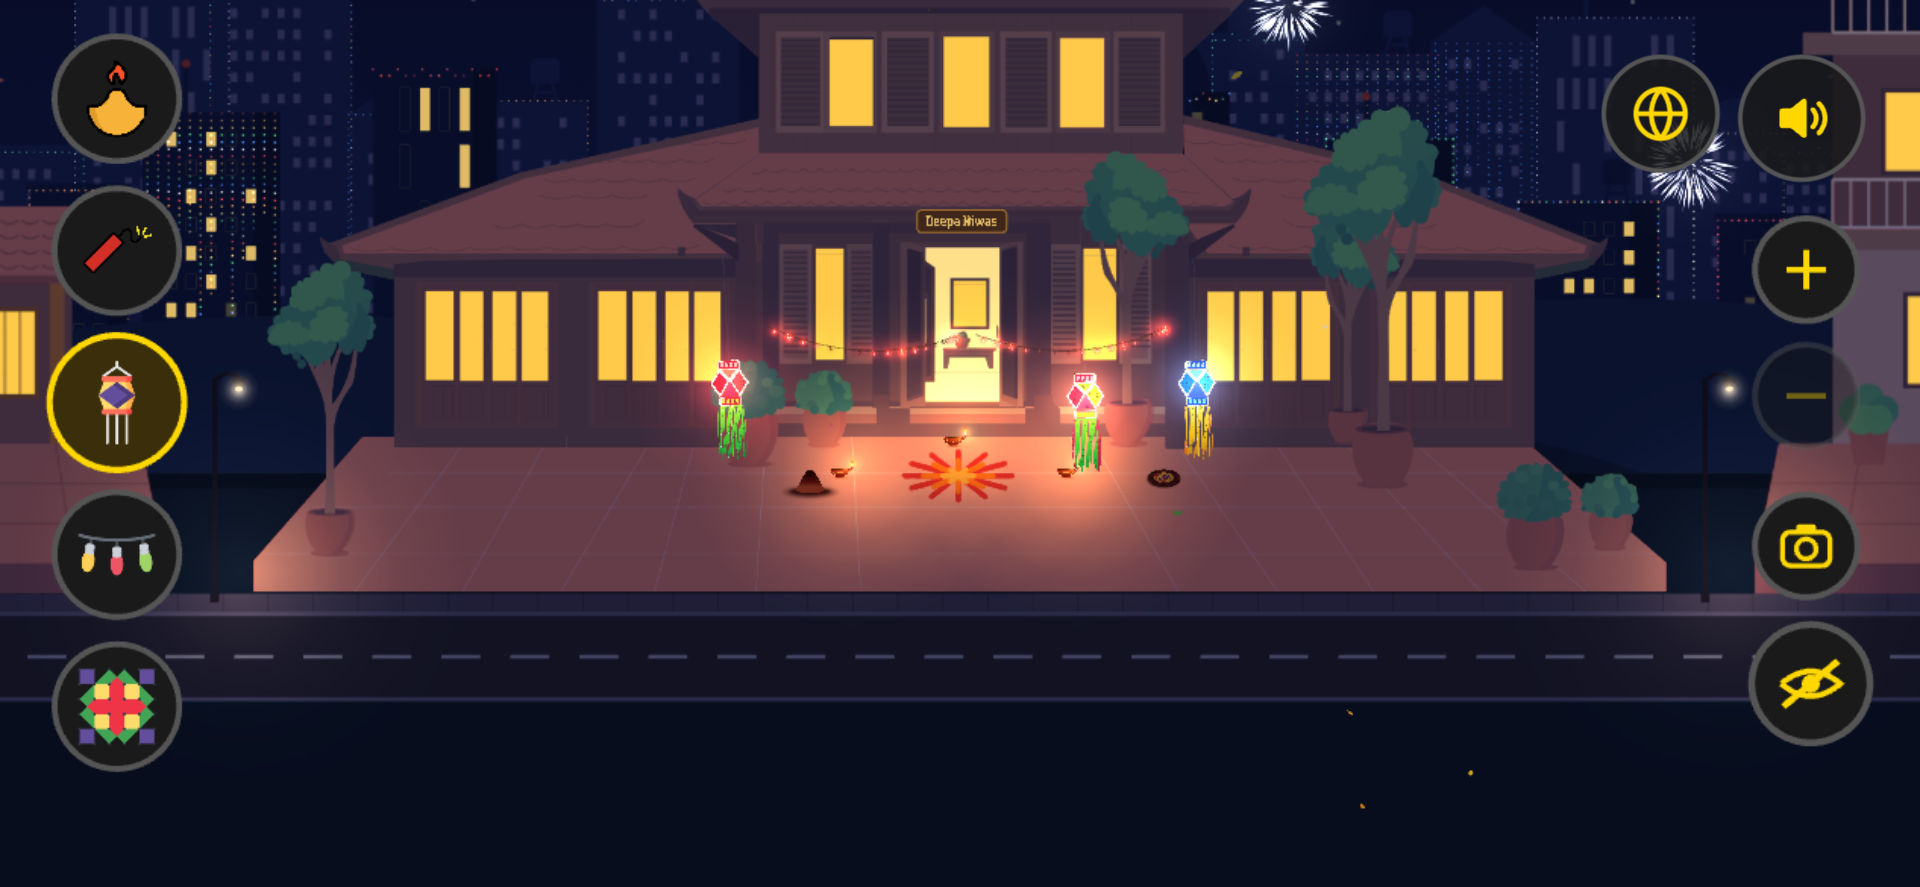
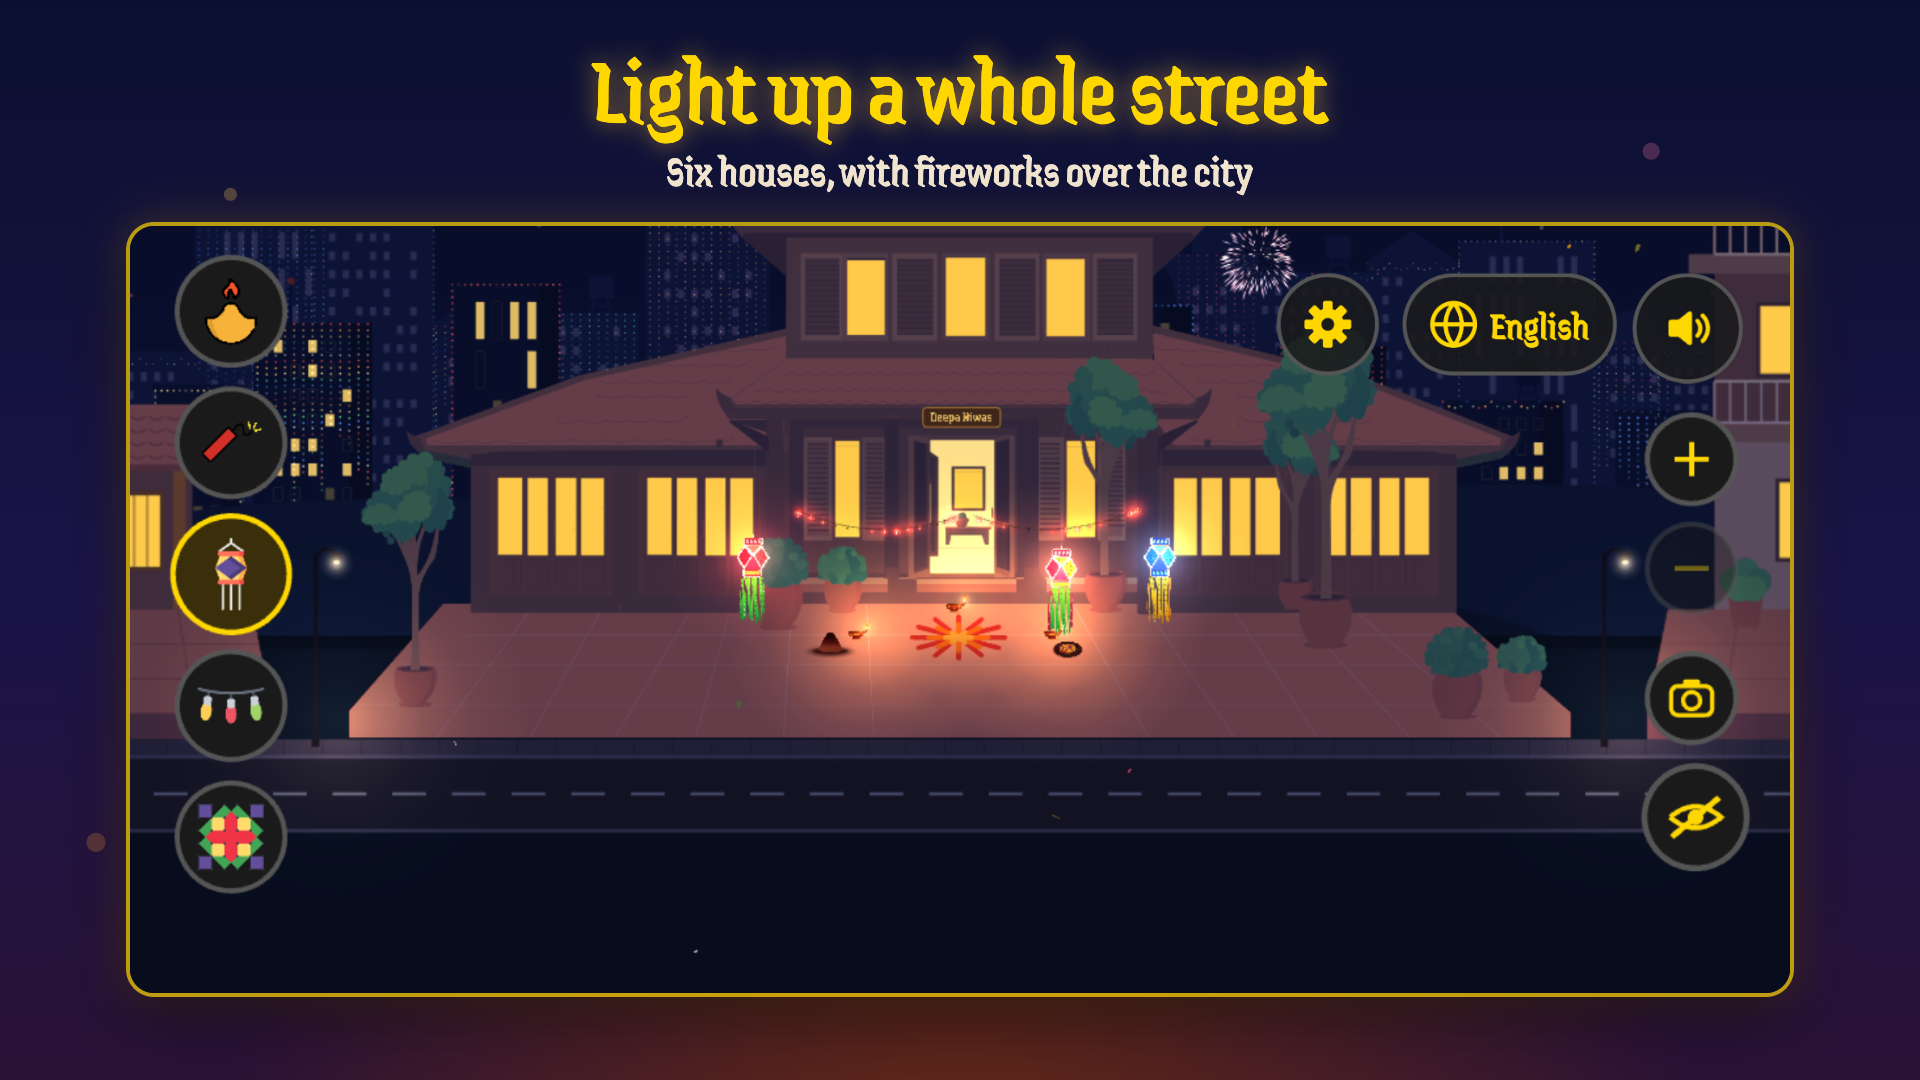
Caption the store screenshots, and keep the game's own for the home page
scripts/store/captioned.mjs frames each of the game's screenshots at 1920 by 1080 (16:9,
which Google Play takes, unlike 1920 by 887) on a festive background with a caption, for
fastlane/ and Google Play, and can export them with upload instructions. The game's own
move to web/screenshots/ for the home page, which isn't built into the app.

diff --git a/home.html b/home.html
@@ -262,31 +262,31 @@
   <h2>A night on the porch</h2>
   <div class="shots">
     <figure>
-      <img src="/fastlane/metadata/android/en-US/images/phoneScreenshots/1.png" width="1920" height="887" alt="Three lit diyas glowing on the porch of a house at night">
+      <img src="/web/screenshots/1.png" width="1920" height="887" alt="Three lit diyas glowing on the porch of a house at night">
       <figcaption>Fill diyas with wicks and oil, and light them with a match.</figcaption>
     </figure>
     <figure>
-      <img src="/fastlane/metadata/android/en-US/images/phoneScreenshots/2.png" width="1920" height="887" alt="An anar fountain and a spinning chakri throwing sparks on the porch" loading="lazy">
+      <img src="/web/screenshots/2.png" width="1920" height="887" alt="An anar fountain and a spinning chakri throwing sparks on the porch" loading="lazy">
       <figcaption>Set off anars, chakris, laddis, sutli bombs and rockets.</figcaption>
     </figure>
     <figure>
-      <img src="/fastlane/metadata/android/en-US/images/phoneScreenshots/3.png" width="1920" height="887" alt="Strings of fairy lights hung across the front of the house" loading="lazy">
+      <img src="/web/screenshots/3.png" width="1920" height="887" alt="Strings of fairy lights hung across the front of the house" loading="lazy">
       <figcaption>Hang strings of fairy lights that sway in the wind.</figcaption>
     </figure>
     <figure>
-      <img src="/fastlane/metadata/android/en-US/images/phoneScreenshots/4.png" width="1920" height="887" alt="A colourful rangoli of petals drawn on the porch floor" loading="lazy">
+      <img src="/web/screenshots/4.png" width="1920" height="887" alt="A colourful rangoli of petals drawn on the porch floor" loading="lazy">
       <figcaption>Draw a rangoli on the porch floor in coloured powder.</figcaption>
     </figure>
     <figure>
-      <img src="/fastlane/metadata/android/en-US/images/phoneScreenshots/5.png" width="1920" height="887" alt="Three lit akash kandils, red, mixed and blue, hanging from the house with long tails" loading="lazy">
+      <img src="/web/screenshots/5.png" width="1920" height="887" alt="Three lit akash kandils, red, mixed and blue, hanging from the house with long tails" loading="lazy">
       <figcaption>Make akash kandils step by step and hang them from the eaves.</figcaption>
     </figure>
     <figure>
-      <img src="/fastlane/metadata/android/en-US/images/phoneScreenshots/6.png" width="1920" height="887" alt="The decorated house at night, zoomed out, with the road in front and fireworks over the city" loading="lazy">
+      <img src="/web/screenshots/6.png" width="1920" height="887" alt="The decorated house at night, zoomed out, with the road in front and fireworks over the city" loading="lazy">
       <figcaption>Zoom out to the whole street, with fireworks over the city.</figcaption>
     </figure>
     <figure>
-      <img src="/fastlane/metadata/android/en-US/images/phoneScreenshots/7.png" width="1920" height="887" alt="A family on the porch among lit diyas, a boy carrying one of his own" loading="lazy">
+      <img src="/web/screenshots/7.png" width="1920" height="887" alt="A family on the porch among lit diyas, a boy carrying one of his own" loading="lazy">
       <figcaption>A family on every porch, lighting diyas and setting off fireworks of their own.</figcaption>
     </figure>
   </div>

diff --git a/README.md b/README.md
@@ -183,7 +183,7 @@ Google Play refuses a version code it already has, so a tag rebuilt by hand fail
 
 It reads the version from the tagged source, as it can't work it out from the tag. So the nightly workflow puts each tag on a commit of its own, `Release <tag>`, which writes the version into `android/version.properties` and what's new into `fastlane/metadata/android/en-US/changelogs/<versionCode>.txt`. Those are only ever written there. Google Play's notes are taken from the same changelog.
 
-The store's text, icon, banner and screenshots are in `fastlane/metadata/android/en-US/`. The icon and banner are made with the app's icons (`mise run generate:icons`), and the screenshots by playing the built game (`mise run generate:screenshots`). F-Droid's build recipe, sent to its [fdroiddata](https://gitlab.com/fdroid/fdroiddata) repository, is kept in `fdroid/tech.tanay.diwali.yml`.
+The store's text, icon, banner and screenshots are in `fastlane/metadata/android/en-US/`. The icon and banner are made with the app's icons (`mise run generate:icons`), and the screenshots by playing the built game (`mise run generate:screenshots`): `scripts/store/screenshots.mjs` takes the game's own, in `web/screenshots/`, which the website's home page shows as they are, then `scripts/store/captioned.mjs` frames each at 1920 by 1080 on a festive background with a caption above saying what it shows, for the stores. Google Play takes screenshots no more than twice as long one way as the other, which the game's own, at 1920 by 887, are just over. F-Droid gets the captioned ones from `fastlane/` with each release; Google Play's are uploaded by hand in Play Console. `node scripts/store/captioned.mjs <folder>` also copies them to a folder, with `UPLOADING.md` beside them saying how. F-Droid's build recipe, sent to its [fdroiddata](https://gitlab.com/fdroid/fdroiddata) repository, is kept in `fdroid/tech.tanay.diwali.yml`.
 
 ```sh
 $ cd android && ./gradlew -q :app:printVersion
